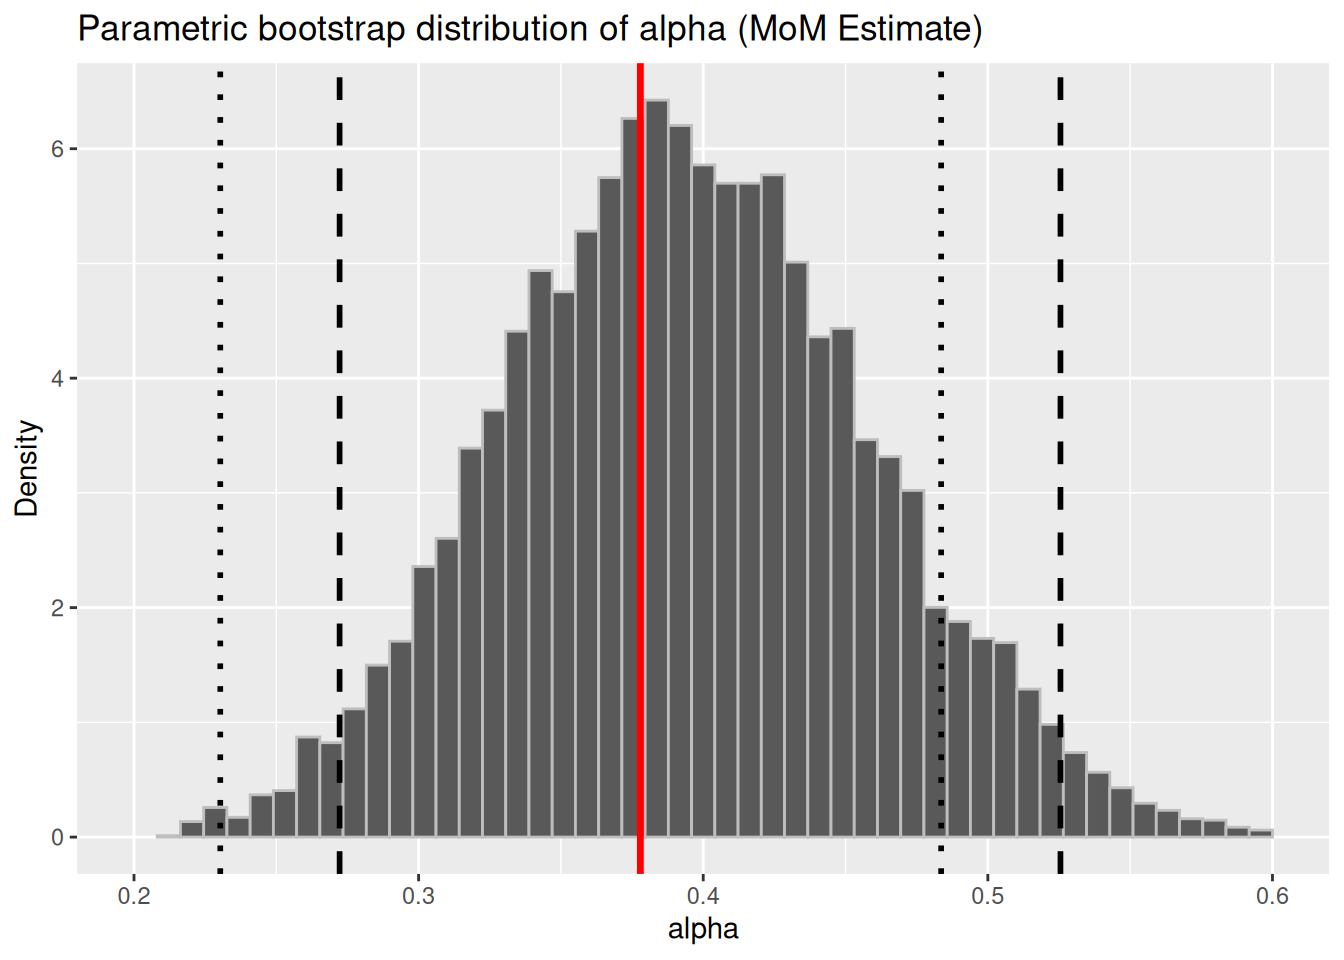
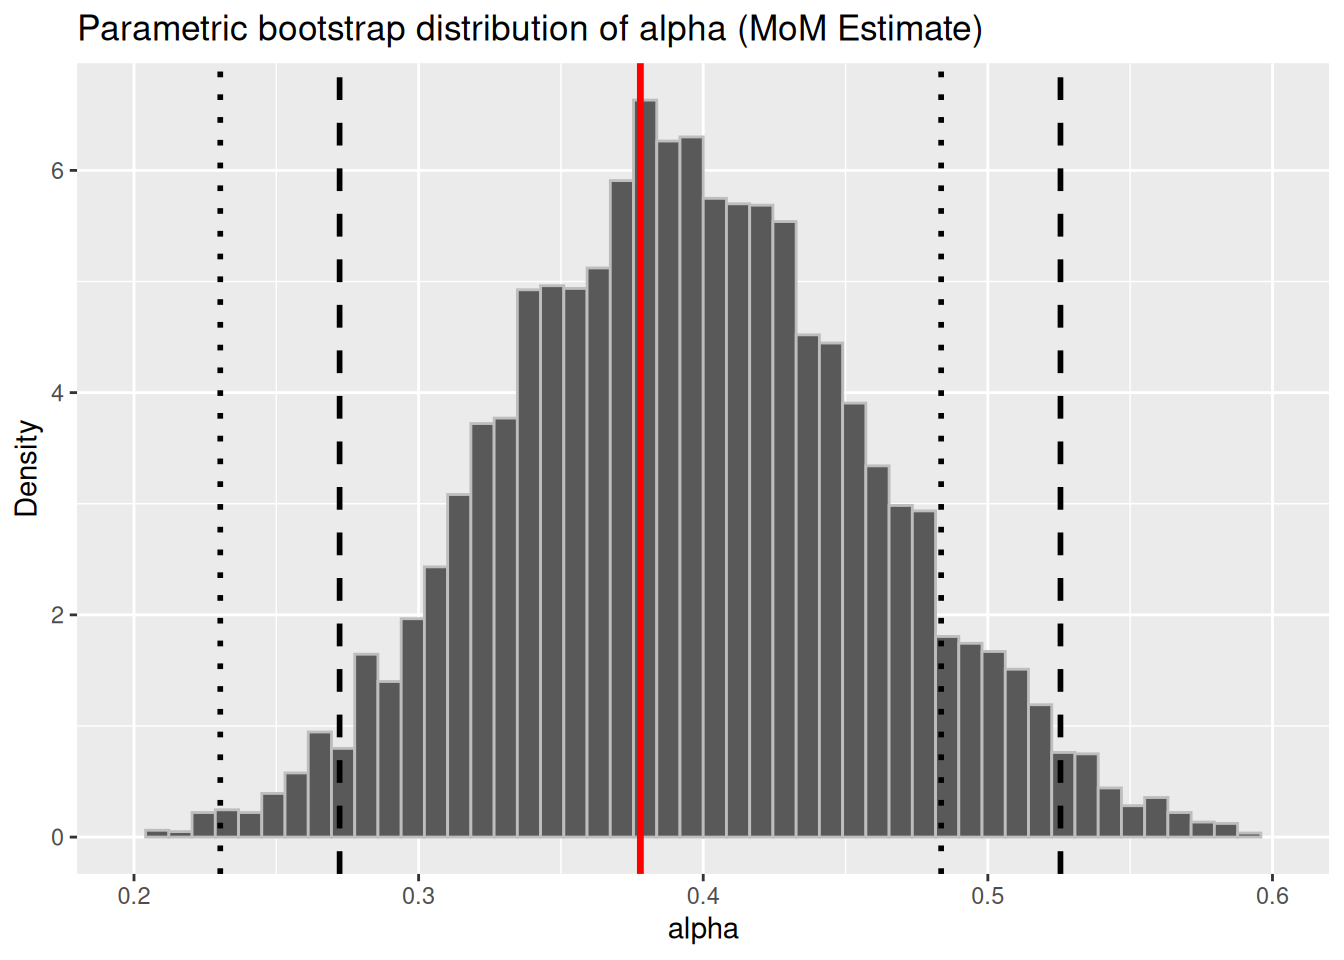
GitHub Actions commit.

diff --git a/lectures/lecture-9.html b/lectures/lecture-9.html
@@ -550,8 +550,8 @@ Warning
 <div class="sourceCode cell-code" id="cb6"><pre class="sourceCode r code-with-copy"><code class="sourceCode r"><span id="cb6-1"><a href="#cb6-1" aria-hidden="true" tabindex="-1"></a>a<span class="sc">$</span>t</span></code><button title="Copy to Clipboard" class="code-copy-button"><i class="bi"></i></button></pre></div>
 <div class="cell-output cell-output-stdout">
 <pre><code>     [,1]
-[1,]  2.4
-[2,]  2.6</code></pre>
+[1,]  3.4
+[2,]  3.4</code></pre>
 </div>
 <div class="sourceCode cell-code" id="cb8"><pre class="sourceCode r code-with-copy"><code class="sourceCode r"><span id="cb8-1"><a href="#cb8-1" aria-hidden="true" tabindex="-1"></a>a<span class="sc">$</span>data</span></code><button title="Copy to Clipboard" class="code-copy-button"><i class="bi"></i></button></pre></div>
 <div class="cell-output cell-output-stdout">
@@ -590,12 +590,12 @@ Warning
 <div class="sourceCode cell-code" id="cb17"><pre class="sourceCode r code-with-copy"><code class="sourceCode r"><span id="cb17-1"><a href="#cb17-1" aria-hidden="true" tabindex="-1"></a><span class="fu">head</span>(boot_np_new<span class="sc">$</span>t) <span class="do">## the first six bootstrap values of theta_hat</span></span></code><button title="Copy to Clipboard" class="code-copy-button"><i class="bi"></i></button></pre></div>
 <div class="cell-output cell-output-stdout">
 <pre><code>          [,1]     [,2]
-[1,] 0.3470619 1.647733
-[2,] 0.4124305 1.580060
-[3,] 0.3484484 1.686125
-[4,] 0.3863917 2.006977
-[5,] 0.5045063 2.256431
-[6,] 0.3360535 2.018366</code></pre>
+[1,] 0.4280280 1.717712
+[2,] 0.3712590 1.553614
+[3,] 0.3724147 1.812878
+[4,] 0.3404654 1.471603
+[5,] 0.4849366 2.316121
+[6,] 0.3416868 1.649257</code></pre>
 </div>
 </div>
 <p>Let’s compute the confidence intervals using the very convenient function <code>boot.ci()</code> that takes as input the object returned by <code>boot()</code>. So we will input <code>boot_np_new</code> into <code>boot.ci()</code>. We specify the <strong>type</strong> of intervals we want, and <code>index=1</code> indicates which column of the output matrix <code>boot_np_new</code> we should consider. Let’s first compute the percentile and basic intervals for <span class="math inline">\(\alpha\)</span>:</p>
@@ -611,7 +611,7 @@ boot.ci(boot.out = boot_np_new, type = c("perc", "basic"), index = 1)
 
 Intervals : 
 Level      Basic              Percentile     
-95%   ( 0.2649,  0.4532 )   ( 0.3027,  0.4909 )  
+95%   ( 0.2647,  0.4531 )   ( 0.3027,  0.4911 )  
 Calculations and Intervals on Original Scale</code></pre>
 </div>
 </div>
@@ -628,7 +628,7 @@ boot.ci(boot.out = boot_np_new, type = c("perc", "basic"), index = 2)
 
 Intervals : 
 Level      Basic              Percentile     
-95%   ( 1.034,  2.025 )   ( 1.343,  2.335 )  
+95%   ( 1.037,  2.028 )   ( 1.340,  2.331 )  
 Calculations and Intervals on Original Scale</code></pre>
 </div>
 </div>
@@ -690,7 +690,7 @@ boot.ci(boot.out = boot_par, type = c("perc", "basic"), index = 1)
 
 Intervals : 
 Level      Basic              Percentile     
-95%   ( 0.2302,  0.4817 )   ( 0.2741,  0.5256 )  
+95%   ( 0.2285,  0.4834 )   ( 0.2724,  0.5274 )  
 Calculations and Intervals on Original Scale</code></pre>
 </div>
 </div>
@@ -711,7 +711,7 @@ boot.ci(boot.out = boot_par, type = c("perc", "basic"), index = 2)
 
 Intervals : 
 Level      Basic              Percentile     
-95%   ( 0.855,  2.212 )   ( 1.156,  2.513 )  
+95%   ( 0.826,  2.212 )   ( 1.156,  2.542 )  
 Calculations and Intervals on Original Scale</code></pre>
 </div>
 </div>

diff --git a/lectures/lecture-8.html b/lectures/lecture-8.html
@@ -735,7 +735,7 @@ $ year        &lt;fct&gt; 1960, 1960, 1960, 1960, 1960, 1960, 1960, 1960, 1960, 
 <span id="cb9-12"><a href="#cb9-12" aria-hidden="true" tabindex="-1"></a>  )</span></code><button title="Copy to Clipboard" class="code-copy-button"><i class="bi"></i></button></pre></div>
 </details>
 <div class="cell-output cell-output-stderr">
-<pre><code>`stat_bin()` using `bins = 30`. Pick better value with `binwidth`.</code></pre>
+<pre><code>`stat_bin()` using `bins = 30`. Pick better value `binwidth`.</code></pre>
 </div>
 <div class="cell-output cell-output-stderr">
 <pre><code>Warning: Removed 1 row containing missing values or values outside the scale range
@@ -931,7 +931,7 @@ $ year        &lt;fct&gt; 1960, 1960, 1960, 1960, 1960, 1960, 1960, 1960, 1960, 
 (`stat_bin()`).</code></pre>
 </div>
 <div class="cell-output cell-output-stderr">
-<pre><code>Warning: Removed 1 row containing missing values or values outside the scale range
+<pre><code>Warning: Removed 2 rows containing missing values or values outside the scale range
 (`geom_bar()`).</code></pre>
 </div>
 <div class="cell-output-display">
@@ -1066,7 +1066,7 @@ $ year        &lt;fct&gt; 1960, 1960, 1960, 1960, 1960, 1960, 1960, 1960, 1960, 
 (`stat_bin()`).</code></pre>
 </div>
 <div class="cell-output cell-output-stderr">
-<pre><code>Warning: Removed 1 row containing missing values or values outside the scale range
+<pre><code>Warning: Removed 2 rows containing missing values or values outside the scale range
 (`geom_bar()`).</code></pre>
 </div>
 <div class="cell-output-display">
